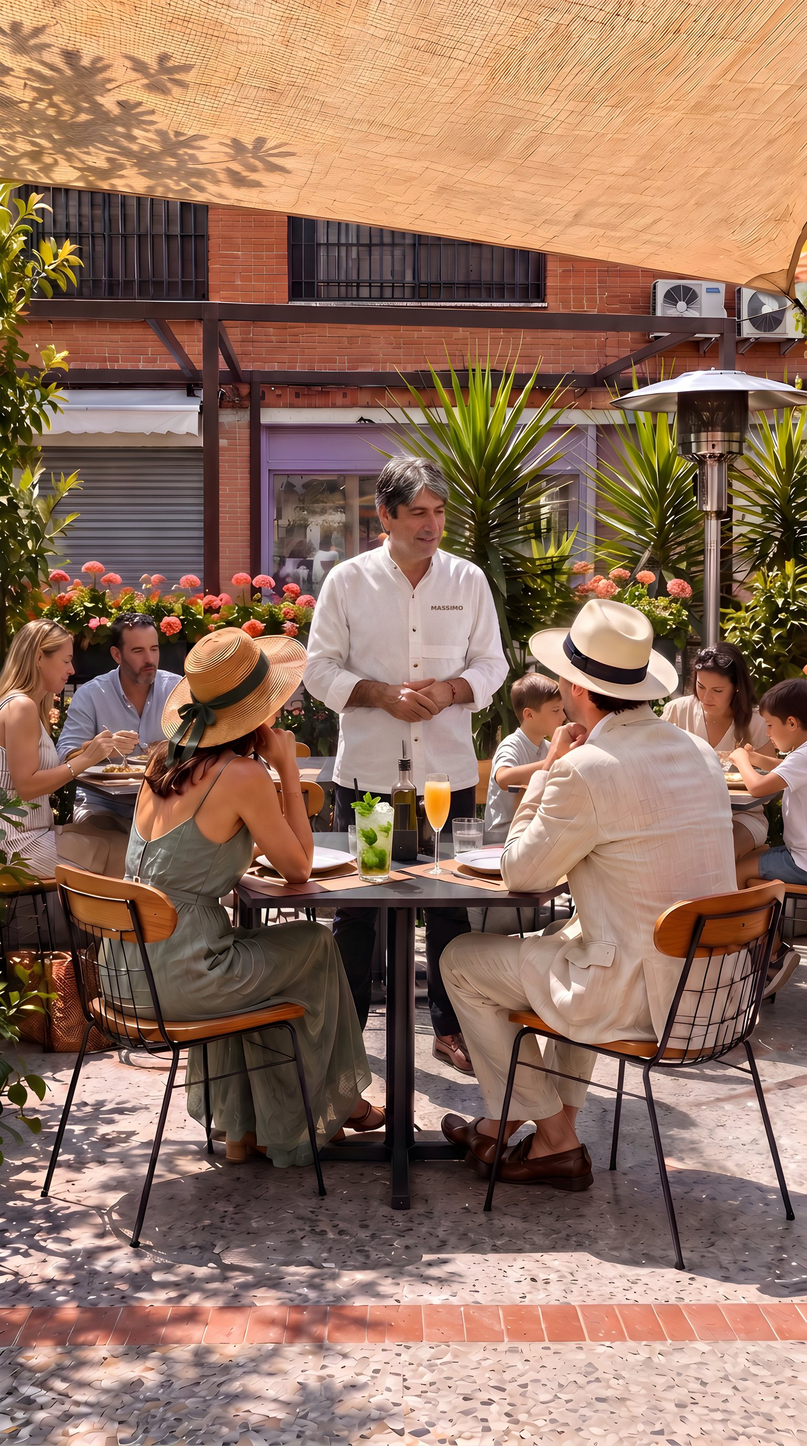
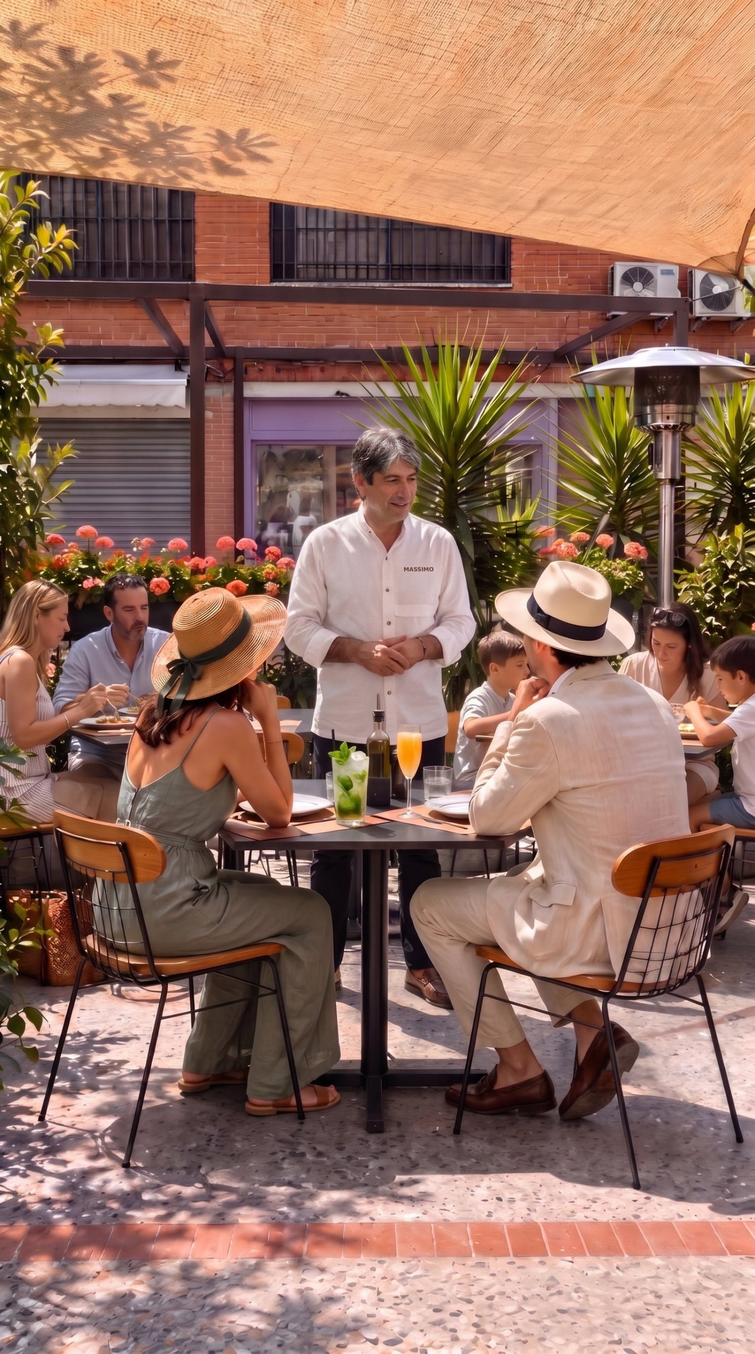
Portada: versión final con Massimo
Claude-Session: https://claude.ai/code/session_019MoS2hn62rMDpRnL1fqsn9

diff --git a/carta/index.html b/carta/index.html
@@ -30,7 +30,7 @@ button{font:inherit;color:inherit;background:none;border:0;padding:0;cursor:poin
 @media (prefers-reduced-motion:reduce){*{transition:none!important;animation:none!important}}
 
 /* ---------- Portada ---------- */
-#portada{position:fixed;inset:0;background:#e9d8b4 url("../assets/ilustraciones/portada-massimo.jpg") center/cover no-repeat}
+#portada{position:fixed;inset:0;background:#e9d8b4 url("../assets/ilustraciones/portada-massimo.jpg?v=2") center/cover no-repeat}
 #portada::before{content:"";position:absolute;inset:0 0 auto 0;height:calc(150px + env(safe-area-inset-top,0px));background:linear-gradient(to bottom,var(--sand) 45%,rgba(227,201,155,0))}
 #portada .logo{position:absolute;left:50%;transform:translateX(-50%);top:calc(var(--s5) + env(safe-area-inset-top,0px));height:64px;width:auto;z-index:1}
 #portada .ctas{position:absolute;left:50%;transform:translateX(-50%);bottom:calc(56px + env(safe-area-inset-bottom,0px));
